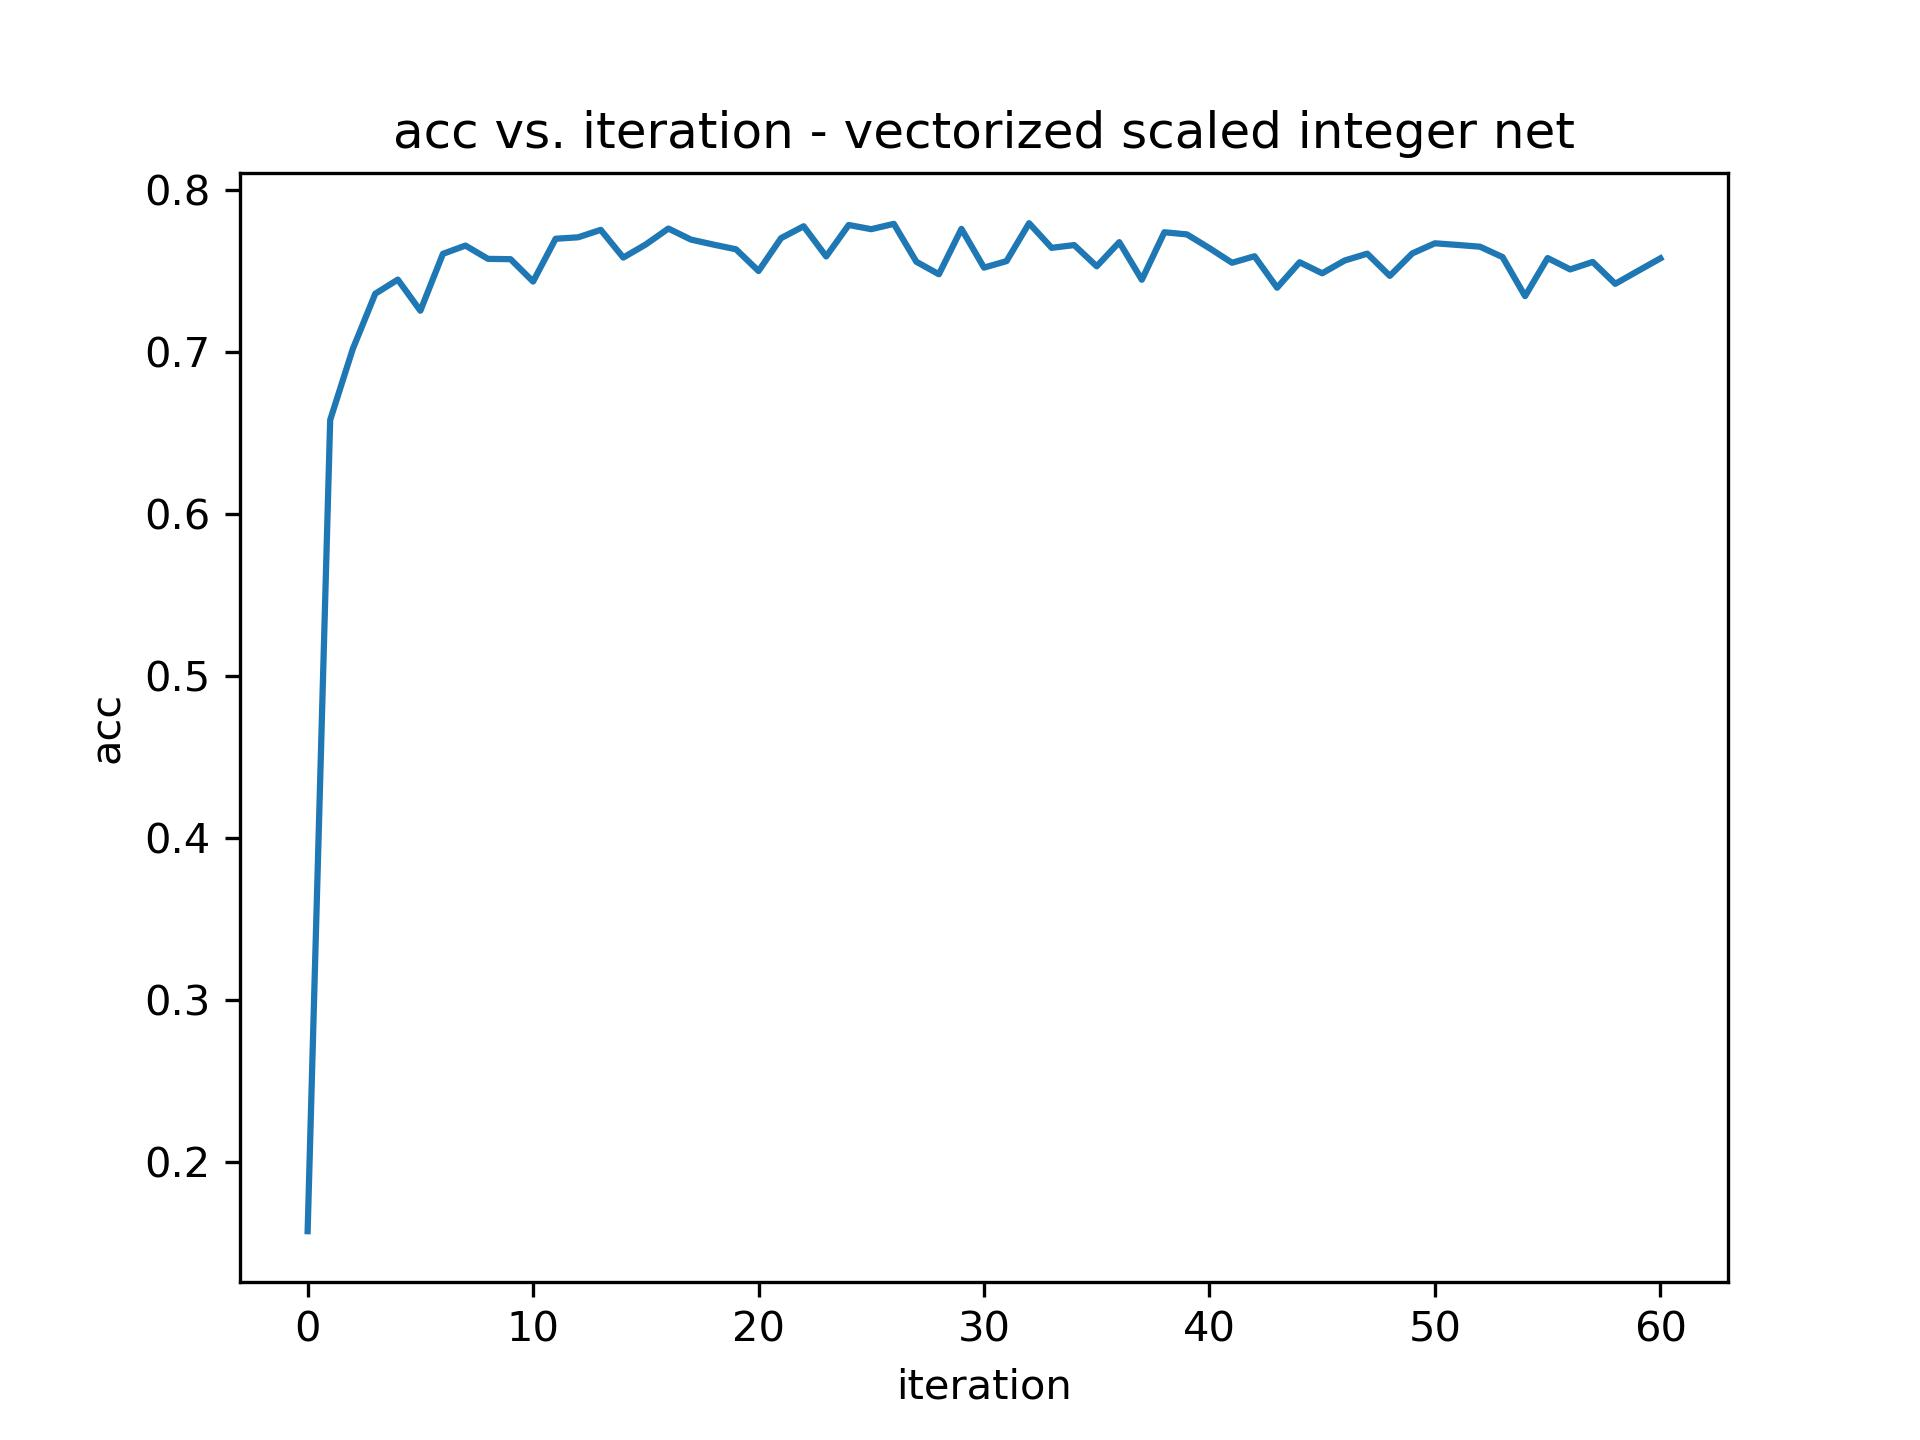
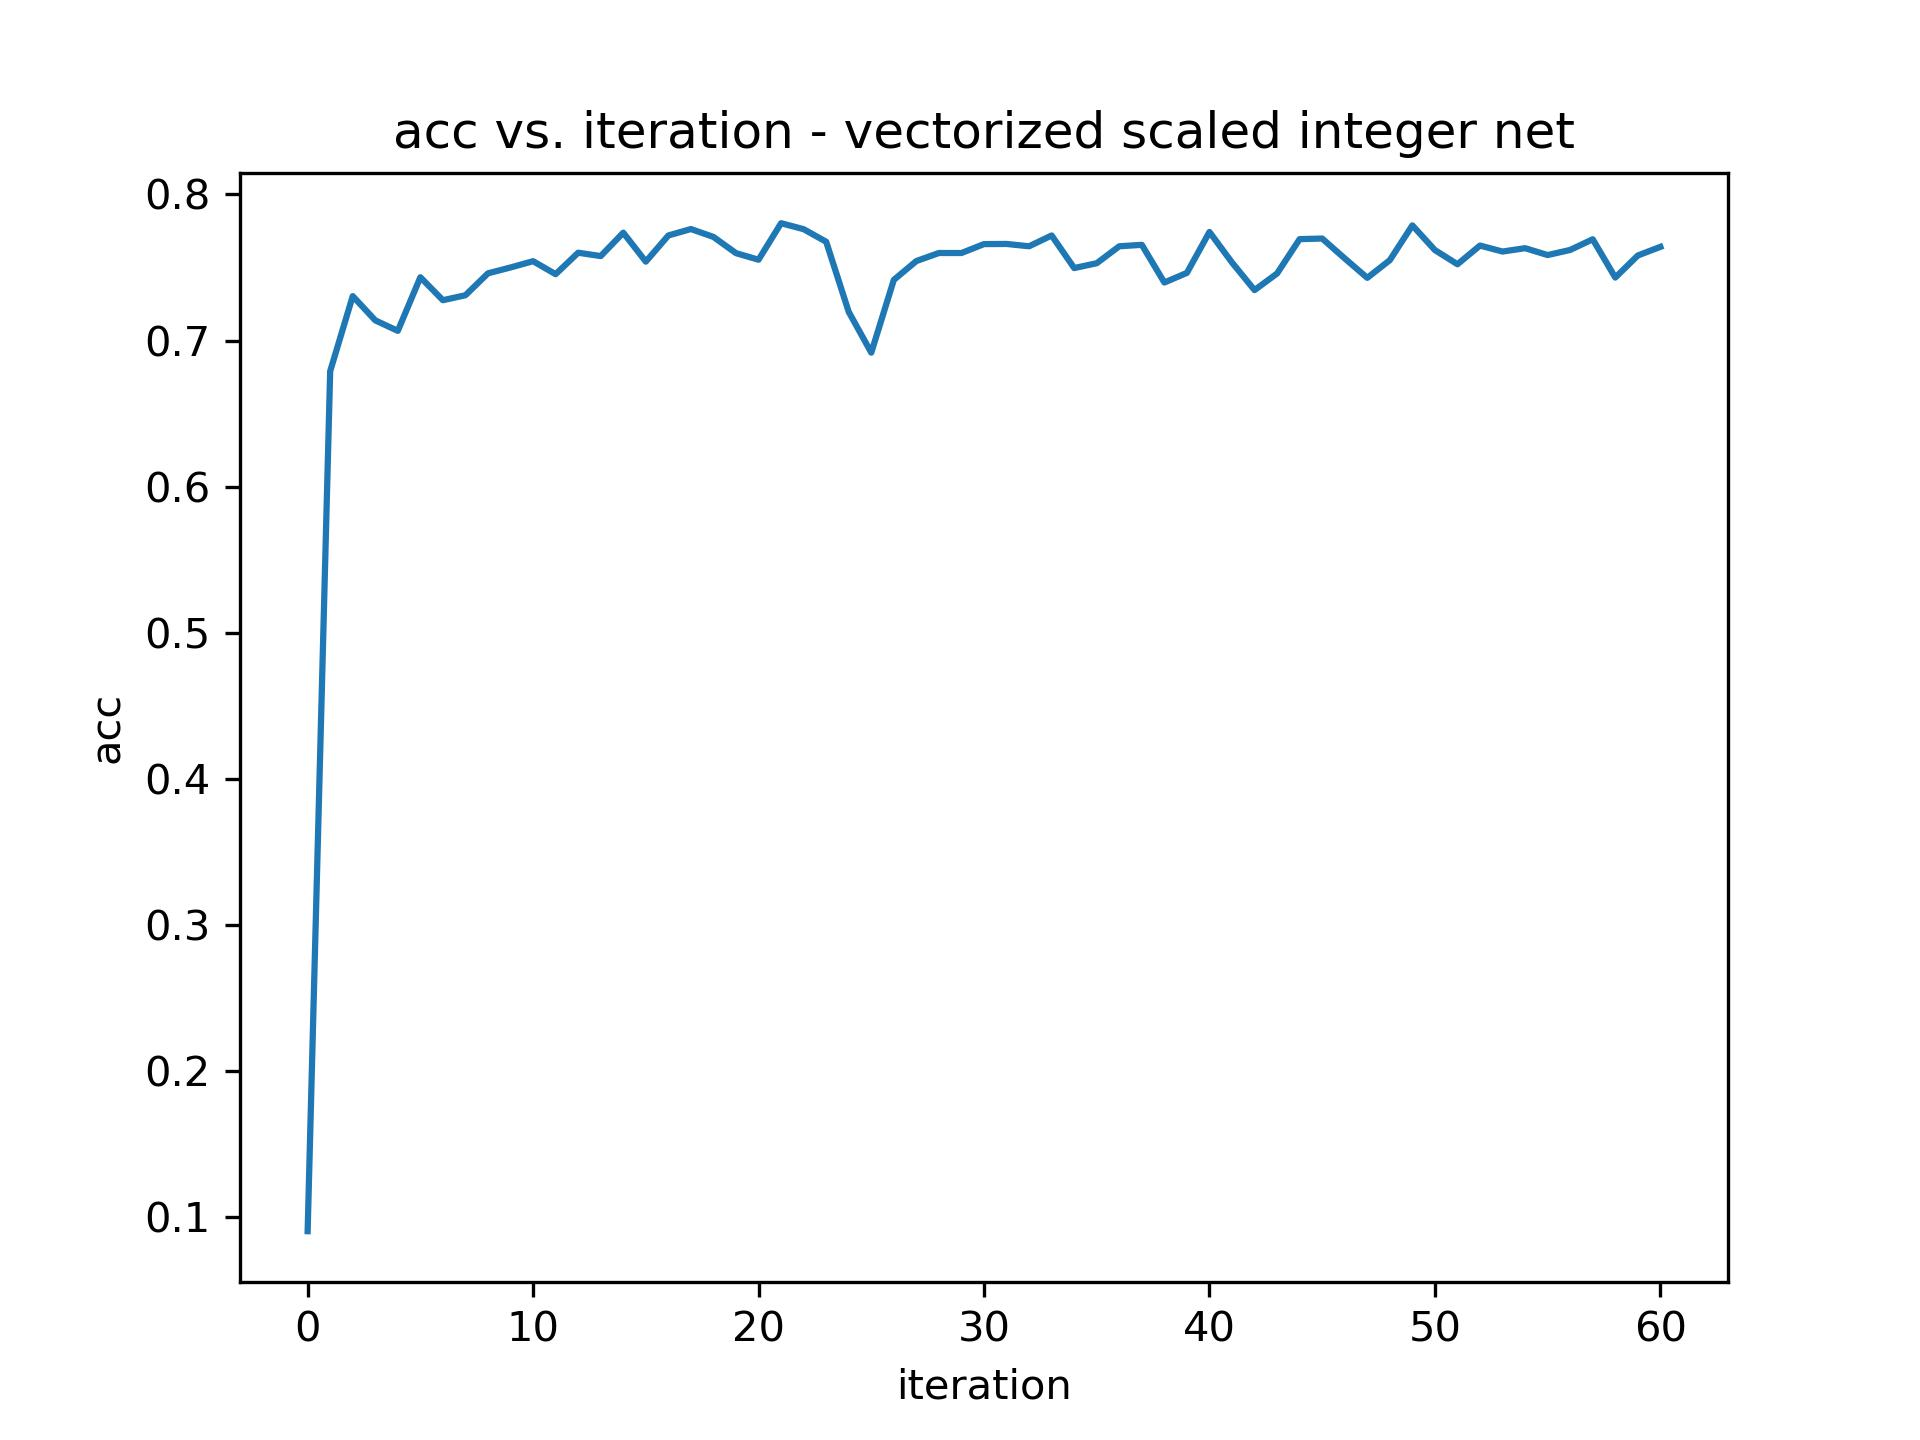
finite field nn failed again, the last update on implementation for nn for now

diff --git a/simple_network.py b/simple_network.py
@@ -656,7 +656,7 @@ class ScaledVectorizedIntegerNet(AbstractVectorizedNet):
             'max_input': self.__max_input_value,
             'running_loss': self.__running_loss,
             'running_acc': self.__running_loss
-        }, 'scaled_vectorized_int_nn_params.tar.gz')
+        }, 'params/scaled_vectorized_int_nn_params.tar.gz')
 
 
 # noinspection DuplicatedCode
@@ -768,19 +768,20 @@ class ScaledVectorizedFiniteFieldNet(AbstractVectorizedNet):
         first_forward, out, label, input_vector = self.__save_for_backward['first_forward'], \
             self.__save_for_backward['out'], self.__save_for_backward['label'], self.__save_for_backward['input_vector']
 
-        weight_2_grad = -2 * finite_field_truncation_ext(torch.matmul(first_forward.type(torch.float),
-                                                                      torch.t((label - out)
-                                                                              % self.__prime).type(torch.float))
-                                                         % self.__prime, self.__scale_weight_parameter, self.__prime)
+        weight_2_grad = (-2 * finite_field_truncation_ext(torch.matmul(first_forward.type(torch.float),
+                                                                       torch.t((label - out)
+                                                                               % self.__prime).type(torch.float))
+                                                          % self.__prime,
+                                                          self.__scale_weight_parameter, self.__prime)) % self.__prime
 
         # weight_1 gradients
-        second_chain = 2 * finite_field_truncation_ext(torch.diag(torch.matmul(torch.t(self._weight_1)
-                                                                               .type(torch.float),
-                                                                               input_vector.type(torch.float))
-                                                                  .reshape(-1)) % self.__prime,
-                                                       self.__scale_input_parameter, self.__prime)
+        second_chain = (2 * finite_field_truncation_ext(torch.diag(torch.matmul(torch.t(self._weight_1)
+                                                                                .type(torch.float),
+                                                                                input_vector.type(torch.float))
+                                                                   .reshape(-1)) % self.__prime,
+                                                        self.__scale_input_parameter, self.__prime)) % self.__prime
         third_chain = torch.t(self._weight_2)
-        fourth_chain = -2 * torch.t((label - out) % self.__prime)
+        fourth_chain = (-2 * torch.t((label - out) % self.__prime)) % self.__prime
         weight_1_grad = second_chain
         weight_1_grad = finite_field_truncation_ext(torch.matmul(third_chain.type(torch.float),
                                                                  weight_1_grad.type(torch.float)) % self.__prime,
@@ -835,22 +836,23 @@ class ScaledVectorizedFiniteFieldNet(AbstractVectorizedNet):
                 self._optimizer(learning_rate)
                 curr_loss += loss
 
-                if idx == 0 or (idx + 1) % 1000 == 0:
+                if idx == 0 or (idx + 1) % 100 == 0:
                     if idx == 0:
                         running_loss.append(curr_loss.item())
                     else:
-                        running_loss.append((curr_loss / 1000).item())
+                        running_loss.append((curr_loss / 100).item())
                     test_idx = 1
                     for test_data, test_label in test_loader:
                         test_data, test_label = test_data.to(self.device), test_label.to(self.device)
                         test_data = test_data.squeeze().T.reshape(-1, 1)
                         test_out = self._forward(test_data, mode='eval')
+                        test_out = to_real_domain(test_out, self.__scale_weight_parameter, self.__prime)
                         pred_label = torch.argmax(test_out)
                         if pred_label == test_label:
                             curr_acc = curr_acc + 1
                         test_idx = test_idx + 1
                     running_acc.append(curr_acc / (test_idx + 1))
-                    if idx == 0 or (idx + 1) % 1000 == 0:
+                    if idx == 0 or (idx + 1) % 100 == 0:
                         print('epoch: {}, loss: {}, acc: {}'.format(epoch, running_loss[-1], running_acc[-1]))
                     curr_loss = torch.zeros(1).to(self.device)
                     curr_acc = 0

diff --git a/utils.py b/utils.py
@@ -20,10 +20,10 @@ def to_int_domain(real: Tensor, quantization_bit: int) -> Tensor:
 
 
 def to_real_domain(finite_field: Tensor, quantization_bit: int, prime: int) -> Tensor:
-    threshold = (prime - 1) / 2
-    negative_mask = finite_field > threshold
-    finite_field[negative_mask] = finite_field[negative_mask] - prime
     real_domain = finite_field.type(torch.float)
+    threshold = (prime - 1) / 2
+    negative_mask = real_domain > threshold
+    real_domain[negative_mask] = real_domain[negative_mask] - prime
     real_domain = real_domain / (2 ** quantization_bit)
     return real_domain
 
@@ -52,16 +52,18 @@ def finite_field_truncation(finite_field: Tensor, scale_down: int) -> Tensor:
 
 
 def from_finite_field_to_int_domain(finite_field: Tensor, prime: int) -> Tensor:
+    int_domain = finite_field.type(torch.long)
     threshold = (prime - 1) / 2
-    negative_mask = finite_field > threshold
-    finite_field[negative_mask] = finite_field[negative_mask] - prime
-    return finite_field
+    negative_mask = int_domain > threshold
+    int_domain[negative_mask] = int_domain[negative_mask] - prime
+    return int_domain
 
 
 def from_int_to_finite_field_domain(int_domain: Tensor, prime: int) -> Tensor:
-    negative_mask = int_domain < 0
-    int_domain[negative_mask] = int_domain[negative_mask] + prime
-    return int_domain
+    finite_field = int_domain.type(torch.long)
+    negative_mask = finite_field < 0
+    finite_field[negative_mask] = finite_field[negative_mask] + prime
+    return finite_field
 
 
 def finite_field_truncation_ext(finite_field: Tensor, scale_down: int, prime: int) -> Tensor:

diff --git a/main.py b/main.py
@@ -141,5 +141,5 @@ if __name__ == '__main__':
         plt.savefig('acc_vectorized_scaled_integer.jpeg', dpi=300)
         plt.show()
     elif args.mode == 'scaled-vectorized-ff':
-        scaled_net = ScaledVectorizedFiniteFieldNet(4, 4, 10, (2 ** 26) - 5, device='cpu')
+        scaled_net = ScaledVectorizedFiniteFieldNet(7, 7, 10, 2 ** 26 - 5, device='cpu')
         scaled_net.train('./data', 1, 0.001)
